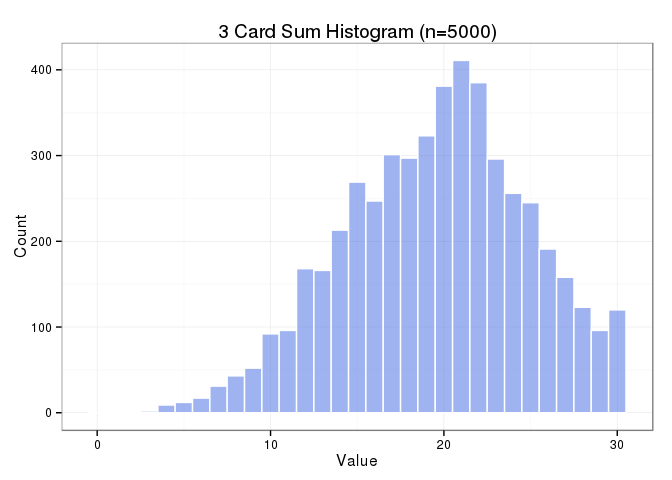
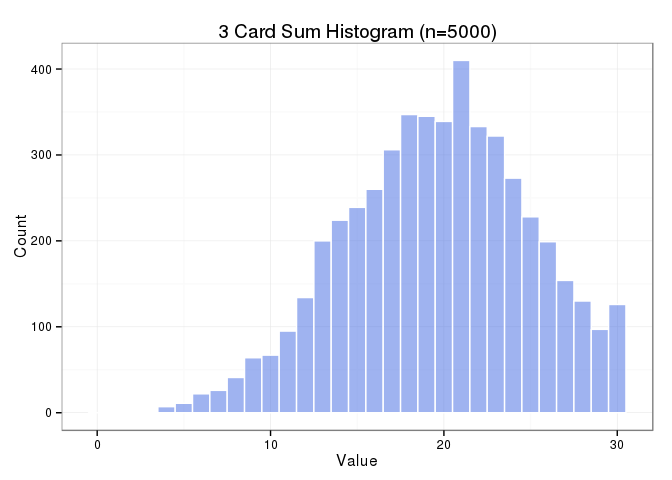
Changes x=values to x=value

diff --git a/udacity/Descriptive Statistics Final Project with R/Descriptive_Statistics_Final_Project_with_R.html b/udacity/Descriptive Statistics Final Project with R/Descriptive_Statistics_Final_Project_with_R.html
@@ -155,7 +155,7 @@ deck</code></pre>
 <div id="create-a-histogram-depicting-the-relative-frequencies-of-the-card-values" class="section level3">
 <h3>1. Create a histogram depicting the relative frequencies of the card values</h3>
 <p>First, create a histogram depicting the relative frequencies of the card values.</p>
-<pre class="r"><code>ggplot(deck, aes(x=values)) + 
+<pre class="r"><code>ggplot(deck, aes(x=value)) + 
     geom_histogram(binwidth=1, origin=-0.5, col=&quot;white&quot;, fill=&quot;royalblue&quot;, alpha=0.5) + 
     labs(x=&quot;Value&quot;, y=&quot;Count&quot;, title=&quot;Card Value Histogram&quot;) +
     scale_x_continuous(breaks = seq(1,10)) +
@@ -179,7 +179,7 @@ samples &lt;- data.frame(df)</code></pre>
 ##  Min.   : 3.00  
 ##  1st Qu.:16.00  
 ##  Median :20.00  
-##  Mean   :19.56  
+##  Mean   :19.61  
 ##  3rd Qu.:23.00  
 ##  Max.   :30.00</code></pre>
 </div>
@@ -190,7 +190,7 @@ samples &lt;- data.frame(df)</code></pre>
     geom_histogram(binwidth=1, origin=-0.5, col=&quot;white&quot;, fill=&quot;royalblue&quot;, alpha=0.5) + 
     labs(x=&quot;Value&quot;, y=&quot;Count&quot;, title=&quot;3 Card Sum Histogram (n=5000)&quot;) +
     theme_bw()</code></pre>
[2 lines of base64/hex data omitted]
 </div>
 <div id="make-some-estimates-about-values-you-will-get-on-future-draws" class="section level3">
 <h3>5. Make some estimates about values you will get on future draws</h3>
@@ -199,7 +199,7 @@ samples &lt;- data.frame(df)</code></pre>
 <h4>a. Within what range will you expect approximately 90% of your draw values to fall?</h4>
 <pre class="r"><code>quantile(samples$value, probs = seq(.05, .95, 0.9))</code></pre>
 <pre><code>##  5% 95% 
-##  10  28</code></pre>
+##  11  28</code></pre>
 </div>
 <div id="b.-approximate-probability-that-you-will-get-a-draw-value-of-at-least-20" class="section level4">
 <h4>b. Approximate probability that you will get a draw value of at least 20?</h4>
@@ -210,14 +210,14 @@ mean &lt;- mean(samples$value)
 sd &lt;- sd(samples$value)
 z &lt;- (atleast-mean)/sd
 z</code></pre>
-<pre><code>## [1] 0.08241152</code></pre>
+<pre><code>## [1] 0.073748</code></pre>
 <p>We could lookup the value in the <a href="https://s3.amazonaws.com/udacity-hosted-downloads/ZTable.jpg">Z score table</a>, but I want to calculate it.</p>
 <p>Convert the Z score to a p-value with the Cumulative Distribution Function. We want to find the probability is larger than the given number so we use the <code>lower.tail=FALSE</code>.</p>
 <p><span class="math">\(F(x) = 1 - P(X &lt;= x)\)</span></p>
 <pre class="r"><code>cdf &lt;- pnorm(z, lower.tail=FALSE)
 cdf</code></pre>
-<pre><code>## [1] 0.4671597</code></pre>
-<p>As we can see the probability that we will get a draw value of at least 20 is <strong>0.4671597</strong>.</p>
+<pre><code>## [1] 0.4706055</code></pre>
+<p>As we can see the probability that we will get a draw value of at least 20 is <strong>0.4706055</strong>.</p>
 </div>
 </div>
 

diff --git a/udacity/Descriptive Statistics Final Project with R/Descriptive_Statistics_Final_Project_with_R.md b/udacity/Descriptive Statistics Final Project with R/Descriptive_Statistics_Final_Project_with_R.md
@@ -95,7 +95,7 @@ deck
 First, create a histogram depicting the relative frequencies of the card values.
 
 ```r
-ggplot(deck, aes(x=values)) + 
+ggplot(deck, aes(x=value)) + 
     geom_histogram(binwidth=1, origin=-0.5, col="white", fill="royalblue", alpha=0.5) + 
     labs(x="Value", y="Count", title="Card Value Histogram") +
     scale_x_continuous(breaks = seq(1,10)) +
@@ -127,7 +127,7 @@ summary(samples)
 ##  Min.   : 3.00  
 ##  1st Qu.:16.00  
 ##  Median :20.00  
-##  Mean   :19.56  
+##  Mean   :19.61  
 ##  3rd Qu.:23.00  
 ##  Max.   :30.00
 ```
@@ -155,7 +155,7 @@ quantile(samples$value, probs = seq(.05, .95, 0.9))
 
 ```
 ##  5% 95% 
-##  10  28
+##  11  28
 ```
 
 #### b. Approximate probability that you will get a draw value of at least 20?
@@ -173,7 +173,7 @@ z
 ```
 
 ```
-## [1] 0.08241152
+## [1] 0.073748
 ```
 
 We could lookup the value in the [Z score table](https://s3.amazonaws.com/udacity-hosted-downloads/ZTable.jpg), but I want to calculate it.
@@ -189,7 +189,7 @@ cdf
 ```
 
 ```
-## [1] 0.4671597
+## [1] 0.4706055
 ```
 
-As we can see the probability that we will get a draw value of at least 20 is **0.4671597**.
+As we can see the probability that we will get a draw value of at least 20 is **0.4706055**.
